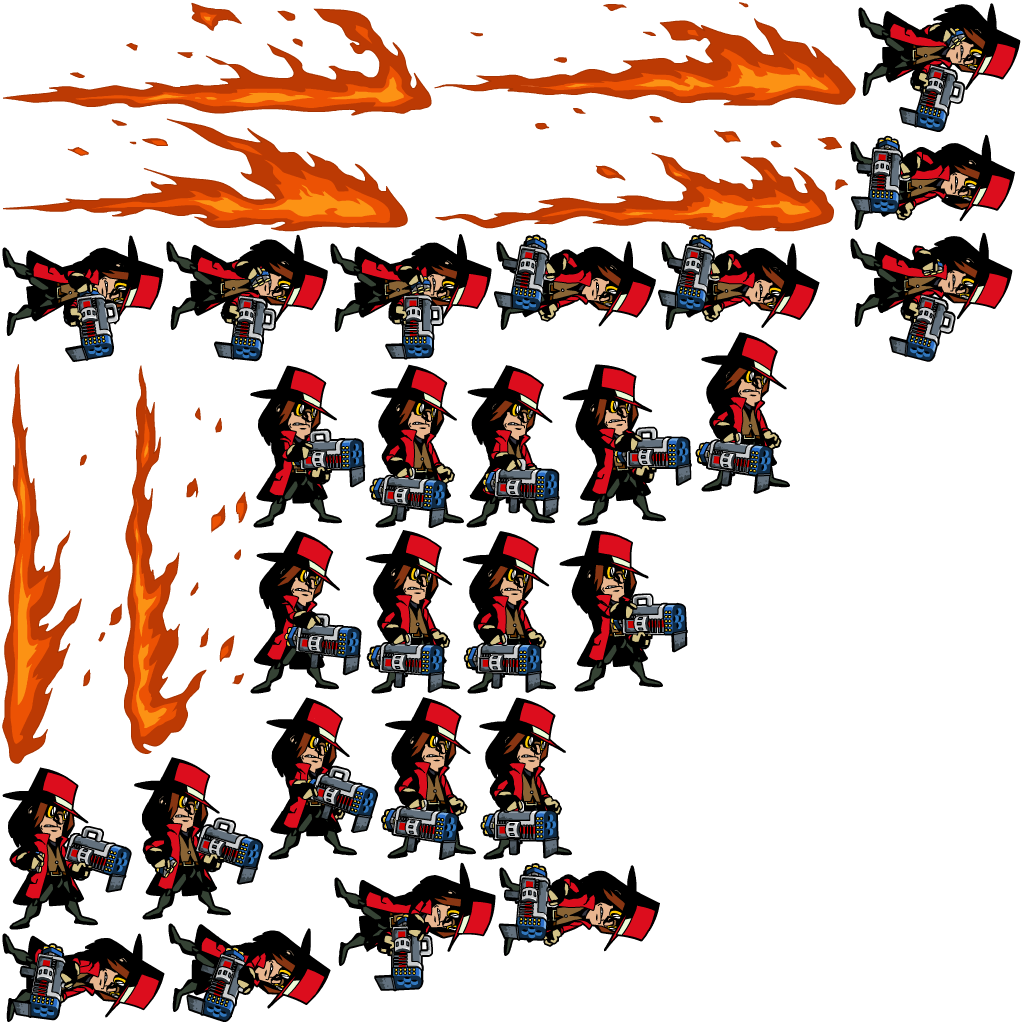
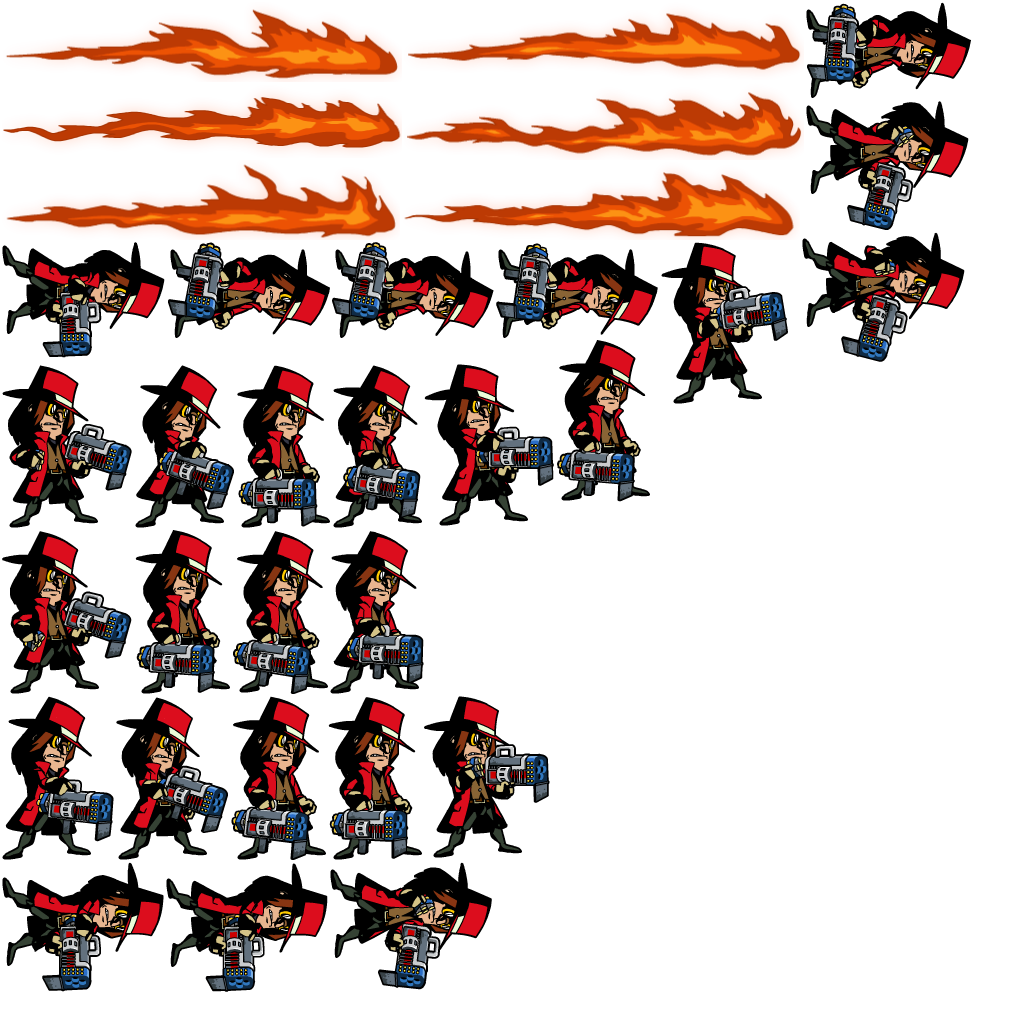
2015.07.30 01

diff --git a/SwampAttack/Classes/GunSprite.cpp b/SwampAttack/Classes/GunSprite.cpp
@@ -48,26 +48,40 @@ GunSprite::GunSprite(Gun * gun):m_gun(gun)
         Director::getInstance()->getEventDispatcher()->addEventListenerWithSceneGraphPriority(m_listener, m_greenBg);
     }
     
-    int size = m_gun->getMagazieSize();
+    
     Vec2 point = _G_M_M->fightScene_Bullet_Position;
-    m_bullets.reserve(size);
     
-    
+    int bulletShowType = m_gun->getBulletshowType();
     string gunModelId = m_gun->getModelId();
     
-    for (int i = 0; i < size; ++i)
+    if (bulletShowType == 2)
     {
-        Sprite * b_g = Sprite::create(ImagePath(gunModelId + "_bulletBg.png"));
-        Sprite * b_i = Sprite::create(ImagePath(gunModelId + "_bulletIcon.png"));
+        m_bulletProBar = new ProgressBar((gunModelId + "_bulletIcon.png"),
+                                         (gunModelId + "_bulletBg.png"));
+        m_bulletProBar->autorelease();
+        addChild(m_bulletProBar);
+        m_bulletProBar->setBarLeft();
+        m_bulletProBar->setPosition(point);
+    }else
+    {
+        int size = m_gun->getMagazieSize();
+        m_bullets.reserve(size);
         
-        point.x = point.x - b_g->getContentSize().width * 0.7;
-        b_g->setPosition(point);
-        b_i->setPosition(point);
-        addChild(b_g);
-        addChild(b_i);
-        m_bullets.push_back(b_i);
-        m_bulletsBg.push_back(b_g);
+        for (int i = 0; i < size; ++i)
+        {
+            Sprite * b_g = Sprite::create(ImagePath(gunModelId + "_bulletBg.png"));
+            Sprite * b_i = Sprite::create(ImagePath(gunModelId + "_bulletIcon.png"));
+            
+            point.x = point.x - b_g->getContentSize().width * 0.7;
+            b_g->setPosition(point);
+            b_i->setPosition(point);
+            addChild(b_g);
+            addChild(b_i);
+            m_bullets.push_back(b_i);
+            m_bulletsBg.push_back(b_g);
+        }
     }
+    
     
     updateData();
     _G_V->addChild(this,640);
@@ -94,21 +108,28 @@ void GunSprite::touchEnd(Touch *touch, Event *event)
 }
 void GunSprite::updateData()
 {
+    int bulletShowType = m_gun->getBulletshowType();
     int bulletNum = m_gun->getBulletNum();
     int size = m_gun->getMagazieSize();
     
     if (m_gun->isCurrentGun())
     {
-        for (int i = size-1; i >= 0; --i)
+        if (bulletShowType == 2) {
+            m_bulletProBar->setVisible(true);
+            m_bulletProBar->updatePercent((float)bulletNum/(float)size * 100);
+        }else
         {
-            if (i > bulletNum-1)
+            for (int i = size-1; i >= 0; --i)
             {
-                m_bullets[i]->setVisible(false);
-            }else
-            {
-                m_bullets[i]->setVisible(true);
+                if (i > bulletNum-1)
+                {
+                    m_bullets[i]->setVisible(false);
+                }else
+                {
+                    m_bullets[i]->setVisible(true);
+                }
+                m_bulletsBg[i]->setVisible(true);
             }
-            m_bulletsBg[i]->setVisible(true);
         }
         if (GunManager::getInstance()->getTakeUpGunNum() > 1)
         {
@@ -122,10 +143,15 @@ void GunSprite::updateData()
         }
     }else
     {
-        for (int i = size-1; i >= 0; --i)
+        if (bulletShowType == 2) {
+            m_bulletProBar->setVisible(false);
+        }else
         {
-            m_bullets[i]->setVisible(false);
-            m_bulletsBg[i]->setVisible(false);
+            for (int i = size-1; i >= 0; --i)
+            {
+                m_bullets[i]->setVisible(false);
+                m_bulletsBg[i]->setVisible(false);
+            }
         }
         if (GunManager::getInstance()->getTakeUpGunNum() > 1)
         {

diff --git a/SwampAttack/Classes/LiquidBullet.cpp b/SwampAttack/Classes/LiquidBullet.cpp
@@ -1,37 +1,43 @@
 //
-//  PunctureBullet.cpp
+//  LiquidBullet.cpp
 //  SwampAttack
 //
-//  Created by oceantech02 on 15/7/28.
+//  Created by oceantech02 on 15/7/30.
 //
 //
 
-#include "PunctureBullet.h"
+#include "LiquidBullet.h"
 #include "EnemyManager.h"
 #include "House.h"
+#include "FireBulletSprite.h"
 
-PunctureBullet::PunctureBullet(BulletParameter bp):Bullet(bp)
+
+LiquidBullet::LiquidBullet(BulletParameter bp):Bullet(bp)
 {
     
 }
-PunctureBullet::~PunctureBullet()
+LiquidBullet::~LiquidBullet()
 {
     
 }
-void PunctureBullet::gameLoop(float data)
+void LiquidBullet::setView()
+{
+    log("fire bullet sprite");
+    FireBulletSprite * sprite = new FireBulletSprite();
+    sprite->setModel(this);
+    sprite->setRotation(m_angle);
+    sprite->autorelease();
+}
+void LiquidBullet::gameLoop(float data)
 {
     if (m_state == _b_moving)
     {
         
         move();
-        if (m_Point.y > m_visibleOrigin.y + m_visibleSize.height ||
-            m_Point.y < m_visibleOrigin.y ||
-            m_Point.x < m_visibleOrigin.x ||
-            m_Point.x > m_visibleOrigin.x + m_visibleSize.width)
+        if (m_Point.distanceSquared(m_StartPoint) >= m_toPoint.distanceSquared(m_StartPoint))
         {
             m_state = _b_arrive;
             return;
-            
         }
         EnemyGroup * enemyGroup = EnemyManager::getInstance()->getCurrectGroup();
         if (!enemyGroup) {
@@ -47,13 +53,13 @@ void PunctureBullet::gameLoop(float data)
                 Rect b_rect = getRect();
                 if (isFireEnemy() &&
                     !enemy->isDied() &&
-                    enemy->isContainsPoint(b_rect)
-                    )
+                    enemy->isContainsPoint(b_rect))
                 {
                     enemy->hurt(m_damage,m_bp.m_underAttackAction);
                 }
             }
         }
+        
     }
     if (m_state == _b_arrive) {
         

diff --git a/SwampAttack/Classes/BulletManager.cpp b/SwampAttack/Classes/BulletManager.cpp
@@ -11,7 +11,7 @@
 
 #include "PunctureBullet.h"
 #include "CurveBullet.h"
-
+#include "LiquidBullet.h"
 
 BulletManager::BulletManager()
 {
@@ -55,14 +55,16 @@ void BulletManager::fire(BulletParameter bp)
                 bullet = new PunctureBullet(bp);
                 break;
             case 5:
-                bullet = new Bullet(bp);
+                bullet = new LiquidBullet(bp);
                 break;
             case 6:
                 bullet = new CurveBullet(bp);
                 break;
             default:
+                bullet = new Bullet(bp);
                 break;
         }
+        bullet->setView();
         bullets.push_back(bullet);
     }
 }

diff --git a/SwampAttack/Classes/FireBulletSprite.cpp b/SwampAttack/Classes/FireBulletSprite.cpp
@@ -40,14 +40,15 @@ void FireBulletSprite::setModel(Bullet *bullet)
         runAction(ac);
     }
     setScale(0);
-    
+    setAnchorPoint(Vec2(0, 0.3));
+    setPosition(m_model->getStartPosition());
 }
 void FireBulletSprite::update(float data)
 {
     if (m_model->isMoving()) {
         float s_x = m_model->getPosition().x - m_model->getStartPosition().x;
         setScale(s_x/450.0f);
-        setPosition(m_model->getPosition().x / 2, m_model->getPosition().y);
+        setPositionX(m_model->getStartPosition().x);
         
     }else if (m_model->isArrive())
     {

diff --git a/SwampAttack/Classes/Bullet.cpp b/SwampAttack/Classes/Bullet.cpp
@@ -45,7 +45,7 @@ m_enemy(NULL)
     
     m_bulletModel = BulletManager::getInstance()->getBulletModelById(m_bp.m_modelId);
     
-    setView();
+//    setView();
 }
 Bullet::~Bullet()
 {
@@ -216,7 +216,7 @@ BulletInfoData Bullet::getDandaoInfo()
         data.frames = 1;
     }else if ("BulletModelId7" == modelId)
     {
-        data.name = "bullet_qiang";
+        data.name = "bullet_qiang11";
         data.frames = 4;
     }else if ("BulletModelId8" == modelId)
     {

diff --git a/SwampAttack/Classes/LiquidBullet.h b/SwampAttack/Classes/LiquidBullet.h
@@ -1,0 +1,26 @@
+//
+//  LiquidBullet.h
+//  SwampAttack
+//
+//  Created by oceantech02 on 15/7/30.
+//
+//
+
+#ifndef __SwampAttack__LiquidBullet__
+#define __SwampAttack__LiquidBullet__
+
+#include "Bullet.h"
+
+class LiquidBullet : public Bullet
+{
+private:
+    
+public:
+    LiquidBullet(BulletParameter bp);
+    ~LiquidBullet();
+    void    setView();
+    void    gameLoop(float data);
+    
+};
+
+#endif /* defined(__SwampAttack__LiquidBullet__) */

diff --git a/SwampAttack/Classes/GunSprite.h b/SwampAttack/Classes/GunSprite.h
@@ -12,12 +12,14 @@
 #include "BaseCode.h"
 #include "Gun.h"
 #include "GameObserver.h"
+#include "ProgressBar.h"
 
 class GunSprite : public Sprite,public GameObserver{
 private:
     Gun * m_gun;
     std::vector<Sprite * > m_bullets;
     std::vector<Sprite * > m_bulletsBg;
+    ProgressBar * m_bulletProBar;
     Sprite  *   m_greenBg;
     Sprite  *   m_blueBg;
     Label   *   m_bulletLabel;

diff --git a/SwampAttack/Classes/GameMap.h b/SwampAttack/Classes/GameMap.h
@@ -28,7 +28,7 @@ public:
     Vec2 flyEnemy_target_buttomPoint = {m_visibleOrigin.x + 30, m_visibleOrigin.y + 80};
     
     
-    Vec2 m_BulletStartPoint = {m_visibleOrigin.x + 230, m_visibleOrigin.y + 240};
+    Vec2 m_BulletStartPoint = {m_visibleOrigin.x + 290, m_visibleOrigin.y + 270};
     
     
     Vec2 fightScene_human_Point = {m_visibleOrigin.x + 240, m_visibleOrigin.y + 180};

diff --git a/SwampAttack/Classes/Bullet.h b/SwampAttack/Classes/Bullet.h
@@ -94,7 +94,7 @@ protected:
     Enemy   * m_enemy;
     BulletModel * m_bulletModel;
 protected:
-    void    setView();
+    
     
 public:
     std::string getModelId();
@@ -121,6 +121,8 @@ public:
     BulletInfoData getBaozhaTexiaoInfo();
     
     bool    isHaveExplode();
+    
+    virtual void    setView();
     
     void    gameLoop(float data);
     virtual void move();
